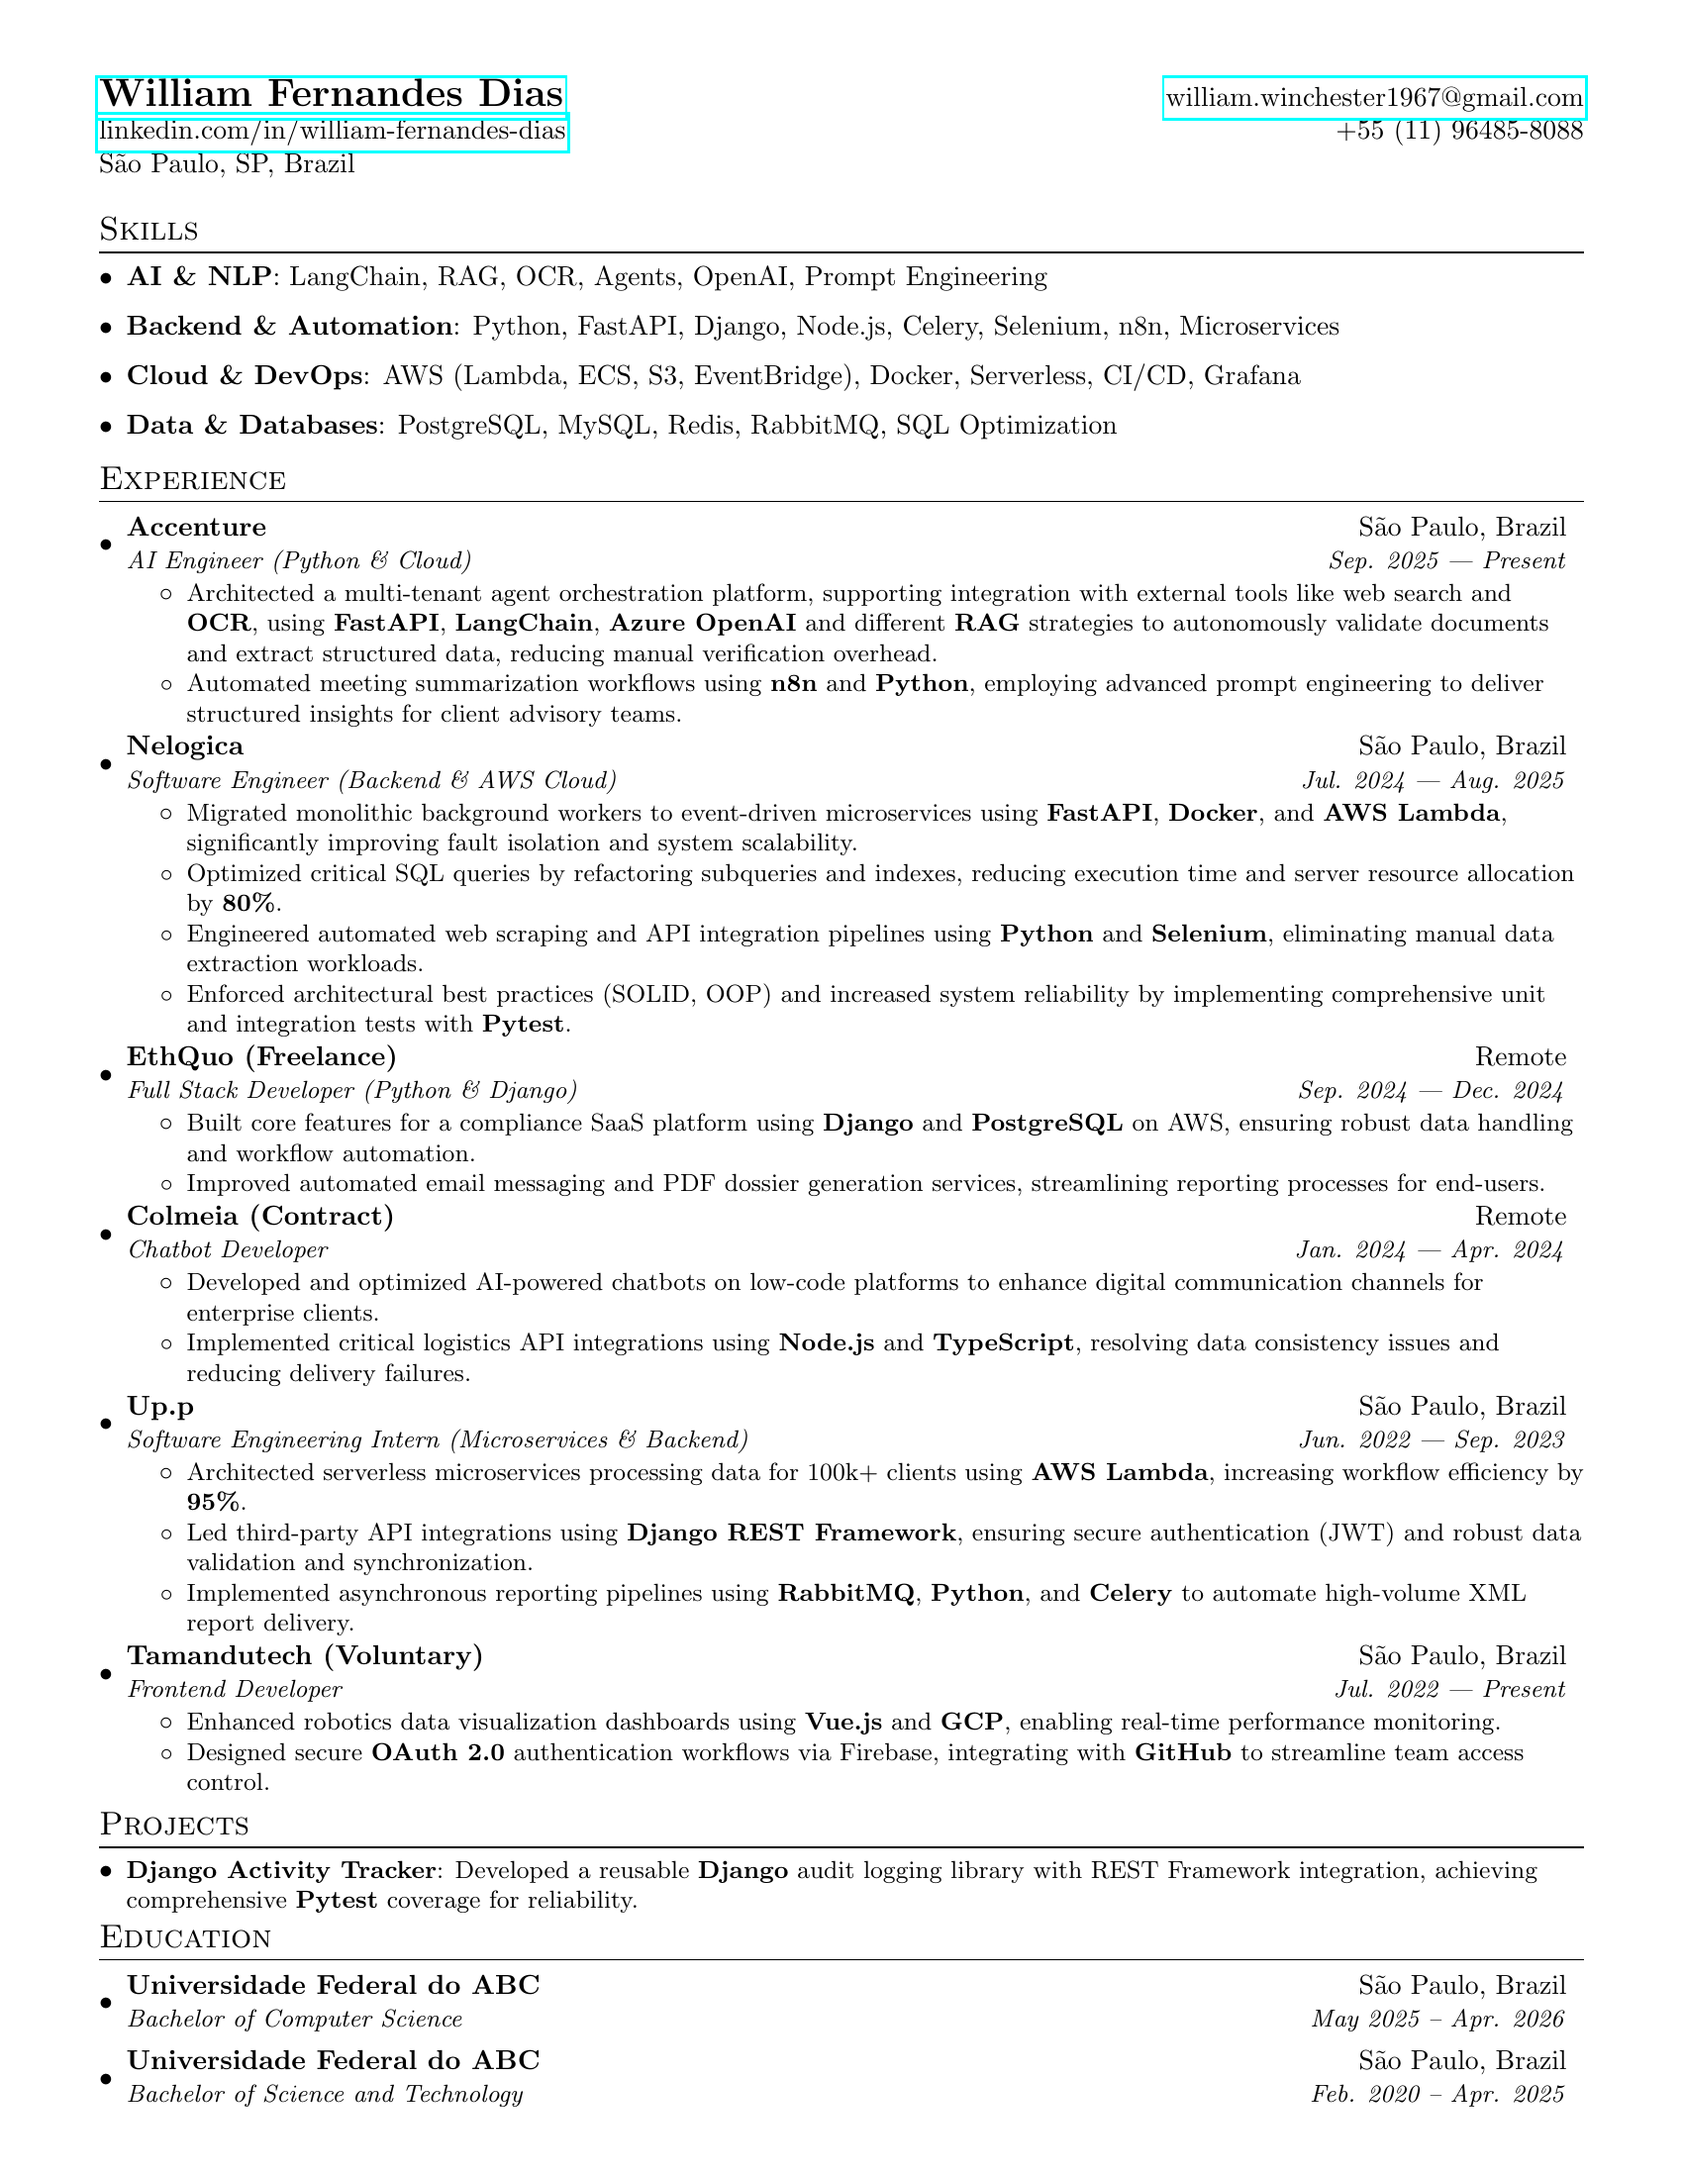
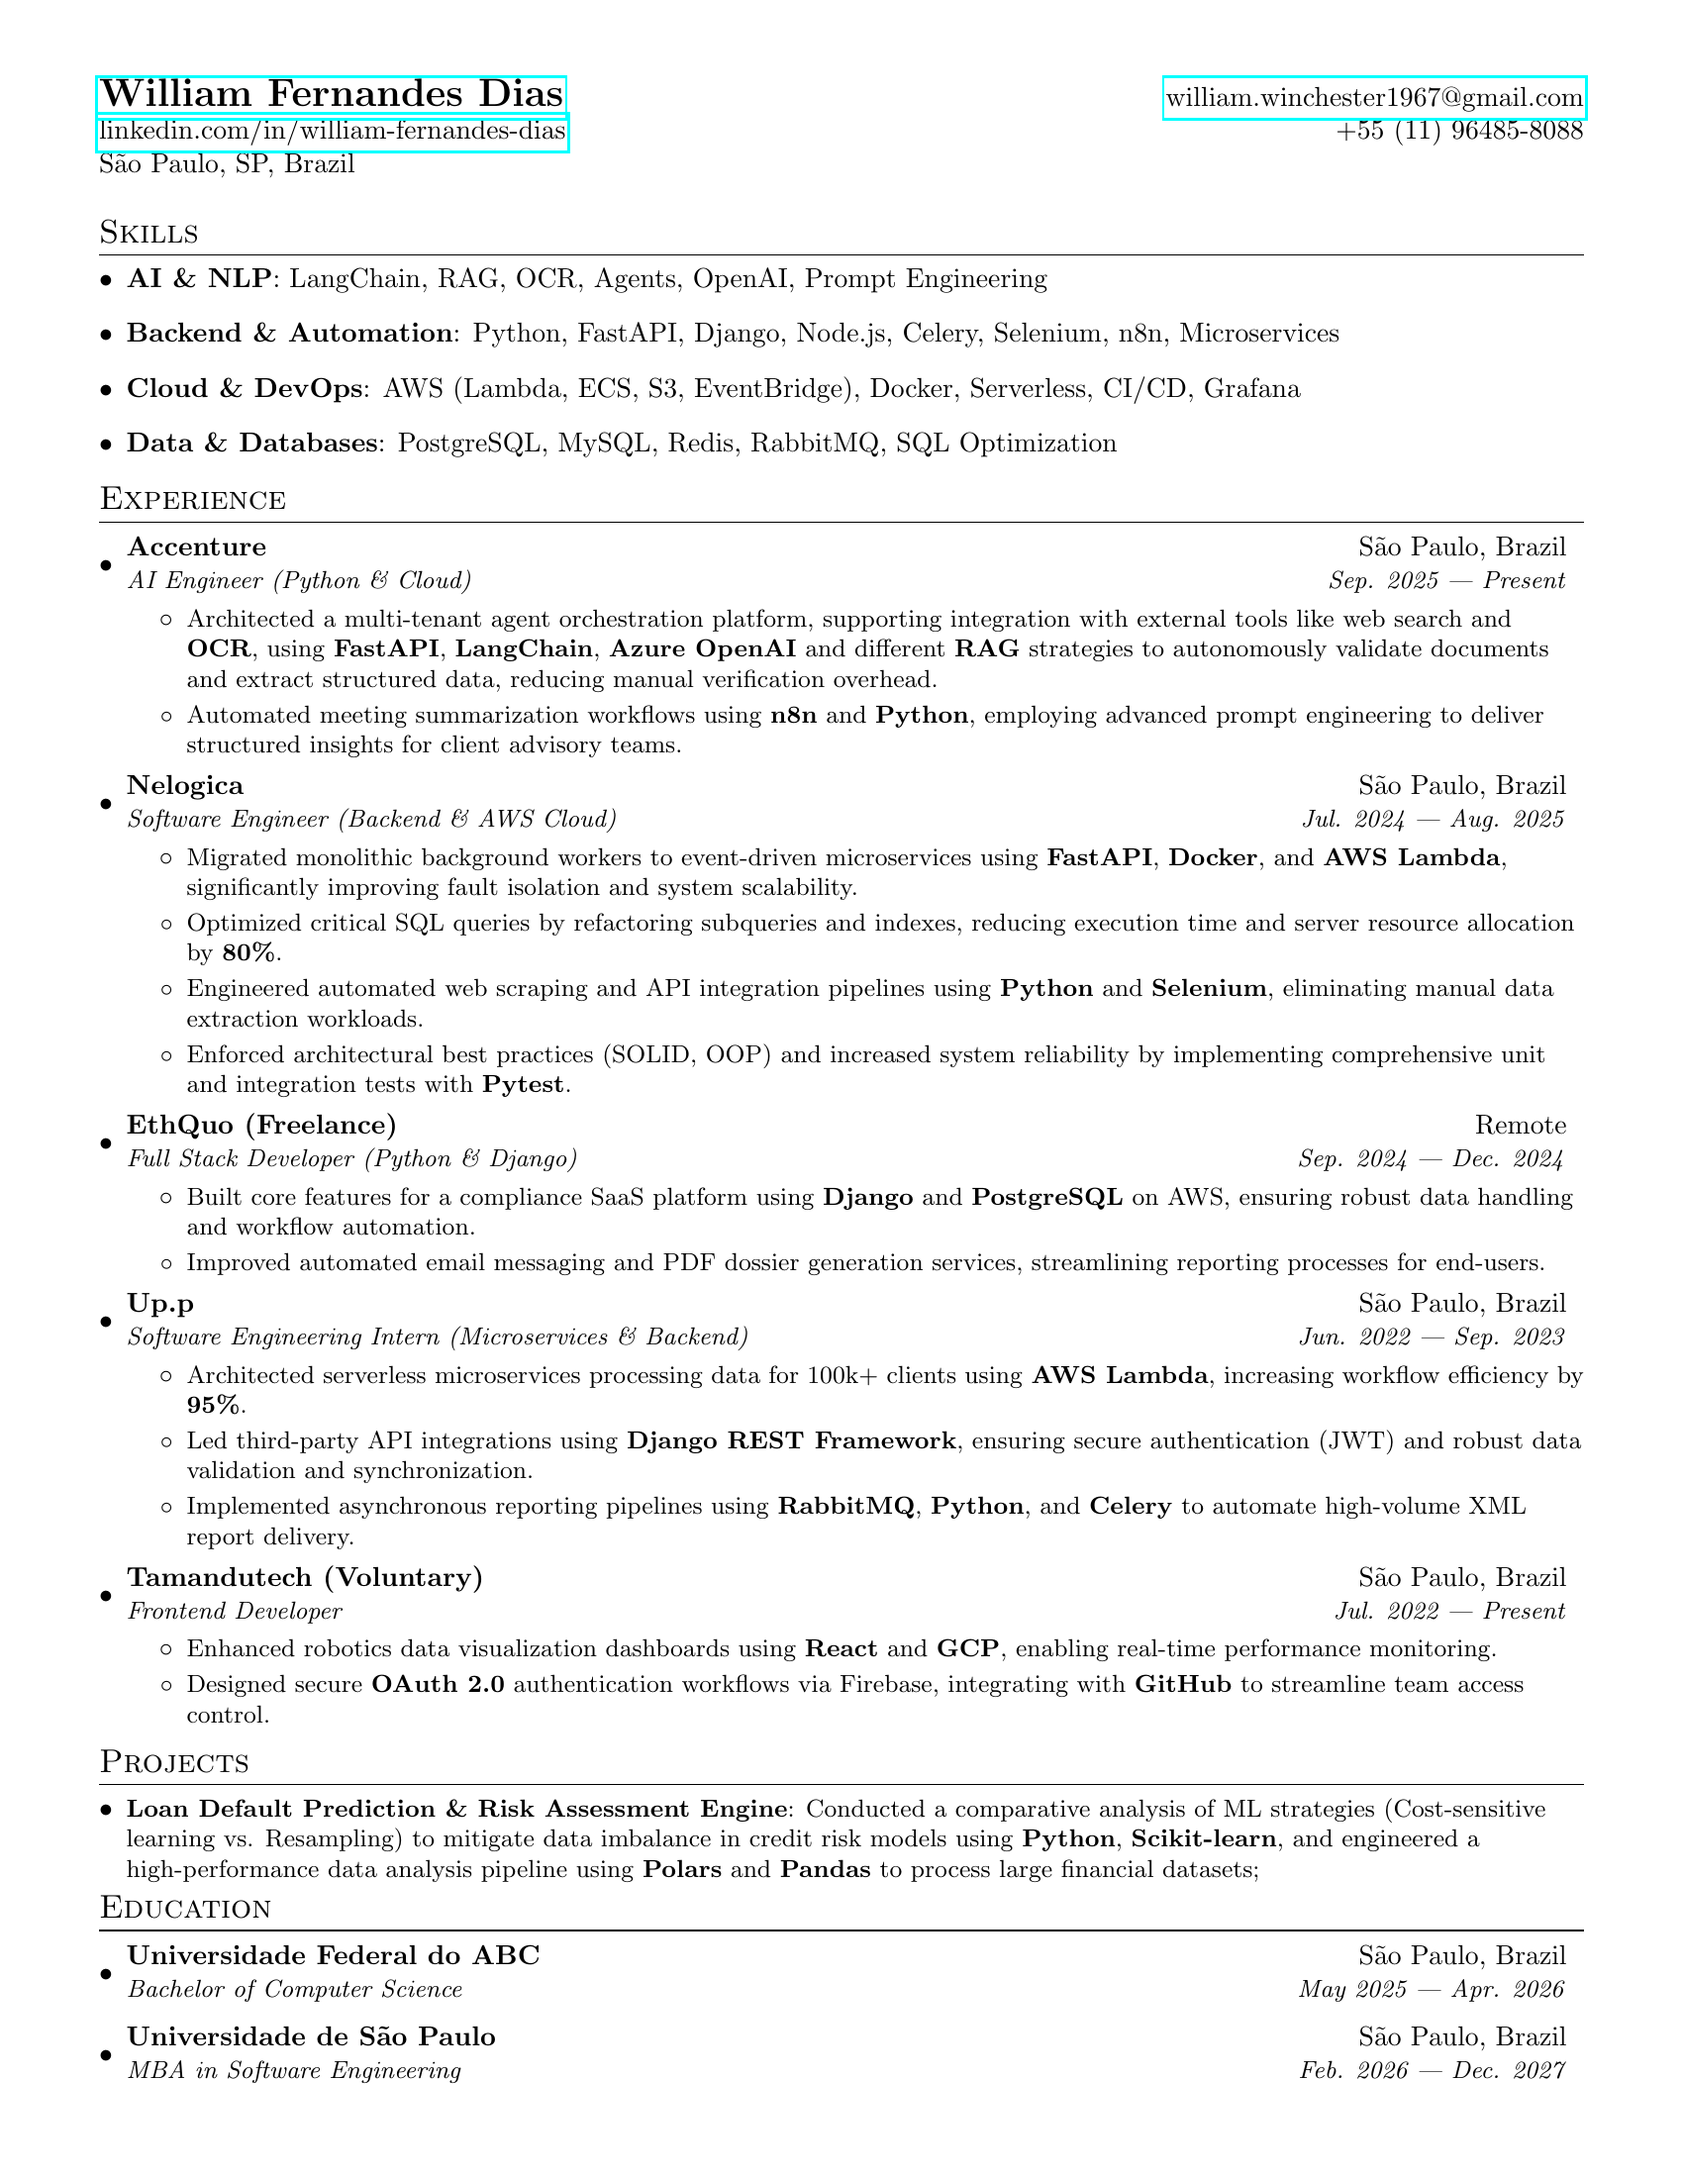
refactor: update education section and remove outdated experience entries

Changed region(s): [[0.0624, 0.0927, 0.9353, 0.9582], [0.7794, 0.8964, 0.9353, 0.9582]]

diff --git a/sessions/experience.tex b/sessions/experience.tex
@@ -36,16 +36,6 @@
 \resumeItemListEnd
 
 \resumeSubheading
-{Colmeia (Contract)}{Remote}
-{Chatbot Developer}{Jan. 2024 --- Apr. 2024}
-\resumeItemListStart
-\resumeItemShort
-{Developed and optimized AI-powered chatbots on low-code platforms to enhance digital communication channels for enterprise clients.}
-\resumeItemShort
-{Implemented critical logistics API integrations using \textbf{Node.js} and \textbf{TypeScript}, resolving data consistency issues and reducing delivery failures.}
-\resumeItemListEnd
-
-\resumeSubheading
 {Up.p}{São Paulo, Brazil}
 {Software Engineering Intern (Microservices \& Backend)}{Jun. 2022 --- Sep. 2023}
 \resumeItemListStart
@@ -62,7 +52,7 @@
 {Frontend Developer}{Jul. 2022 --- Present}
 \resumeItemListStart
 \resumeItemShort
-{Enhanced robotics data visualization dashboards using \textbf{Vue.js} and \textbf{GCP}, enabling real-time performance monitoring.}
+{Enhanced robotics data visualization dashboards using \textbf{React} and \textbf{GCP}, enabling real-time performance monitoring.}
 \resumeItemShort
 {Designed secure \textbf{OAuth 2.0} authentication workflows via Firebase, integrating with \textbf{GitHub} to streamline team access control.}
 \resumeItemListEnd

diff --git a/sessions/projects.tex b/sessions/projects.tex
@@ -1,5 +1,5 @@
 \section{Projects}
 \resumeSubHeadingListStart
-\resumeSubItem{Django Activity Tracker}
-{Developed a reusable \textbf{Django} audit logging library with REST Framework integration, achieving comprehensive \textbf{Pytest} coverage for reliability.}
+\resumeSubItem{Loan Default Prediction \& Risk Assessment Engine}
+{Conducted a comparative analysis of ML strategies (Cost-sensitive learning vs. Resampling) to mitigate data imbalance in credit risk models using \textbf{Python}, \textbf{Scikit-learn}, and engineered a high-performance data analysis pipeline using \textbf{Polars} and \textbf{Pandas} to process large financial datasets;}
 \resumeSubHeadingListEnd

diff --git a/sessions/education.tex b/sessions/education.tex
@@ -2,8 +2,8 @@
 \resumeSubHeadingListStart
 \resumeSubheading
 {Universidade Federal do ABC}{São Paulo, Brazil}
-{Bachelor of Computer Science}{May 2025 -- Apr. 2026}
+{Bachelor of Computer Science}{May 2025 --- Apr. 2026}
 \resumeSubheading
-{Universidade Federal do ABC}{São Paulo, Brazil}
-{Bachelor of Science and Technology}{Feb. 2020 -- Apr. 2025}
+{Universidade de São Paulo}{São Paulo, Brazil}
+{MBA in Software Engineering}{Feb. 2026 --- Dec. 2027}
 \resumeSubHeadingListEnd
